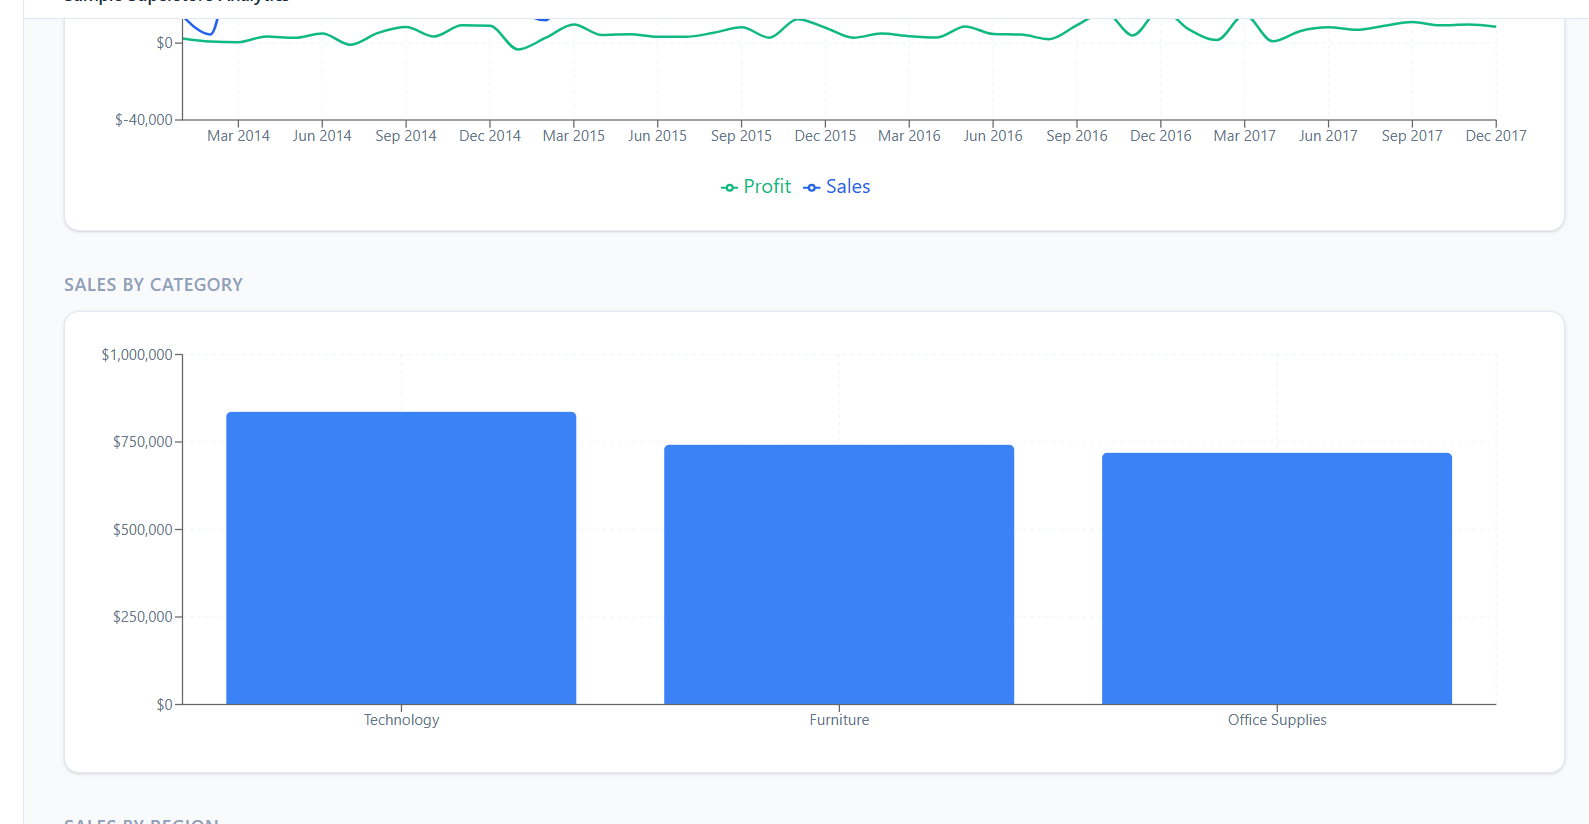
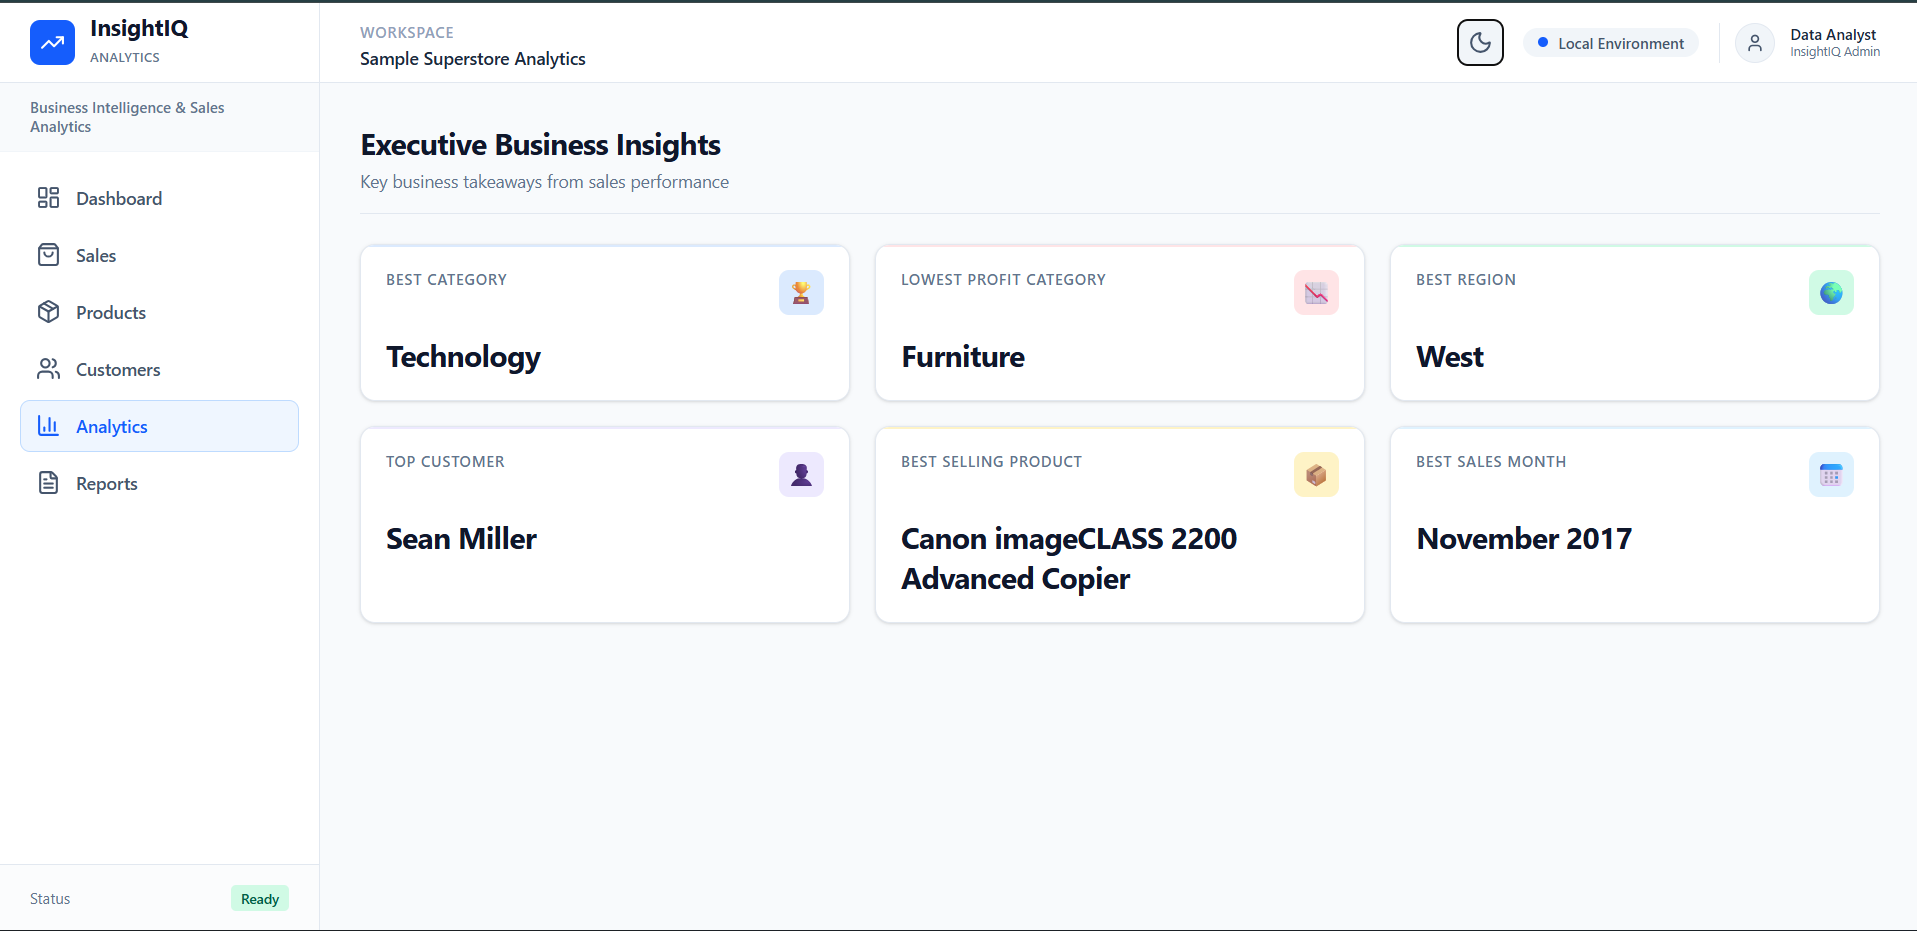
readme update

diff --git a/README.md b/README.md
@@ -4,13 +4,16 @@
 
 ### Business Intelligence & Sales Analytics Dashboard
 
-Modern full-stack analytics dashboard built using **React, FastAPI, Pandas & SQLite**.
+A full-stack analytics dashboard for exploring retail sales data, tracking business performance, and generating filtered reports.
 
 ![React](https://img.shields.io/badge/React-19-61DAFB)
 ![FastAPI](https://img.shields.io/badge/FastAPI-009688)
 ![Python](https://img.shields.io/badge/Python-3776AB)
-![TailwindCSS](https://img.shields.io/badge/TailwindCSS-38BDF8)
-![Status](https://img.shields.io/badge/Status-Active-orange)
+![Pandas](https://img.shields.io/badge/Pandas-150458)
+![Tailwind CSS](https://img.shields.io/badge/Tailwind_CSS-38BDF8)
+![Status](https://img.shields.io/badge/Status-Live-success)
+
+**[🌐 Live Demo](https://insightsiq.vercel.app)**
 
 </div>
 
@@ -18,36 +21,33 @@ Modern full-stack analytics dashboard built using **React, FastAPI, Pandas & SQL
 
 ## 📸 Preview
 
-| Dashboard | Analytics |
-|------------|-----------|
-| ![](screenshots/dashboard.png) | ![](screenshots/analytics.png) |
+| Dashboard                      | Sales                      |
+| ------------------------------ | -------------------------- |
+| ![](screenshots/dashboard.png) | ![](screenshots/sales.png) |
 
-| Sales | Paginated Sales |
-|-------|-----------------|
-| ![](screenshots/plain-sales.png) | ![](screenshots/paginated-sales.png) |
+| Products                      | Insights                       |
+| ----------------------------- | ------------------------------ |
+| ![](screenshots/products.png) | ![](screenshots/analytics.png) |
 
 ---
 
 ## ✨ Features
 
-### 📊 Dashboard
-- KPI Cards
-- Monthly Sales & Profit Trend
-- Category Breakdown
-- Regional Distribution
+* 📊 **Executive Dashboard** — KPIs, sales/profit trends, category and regional analysis
+* 🛒 **Sales Analytics** — Search, pagination, region/category filters and date-range filtering
+* 📦 **Product & Customer Analytics** — Top rankings with interactive charts and tables
+* 💡 **Business Insights** — Automatically identifies key performance highlights
+* 📄 **CSV Reports** — Export complete or filtered sales datasets
+* 🎨 **Responsive UI** — Mobile-friendly layout with dark/light mode
 
-### 🛒 Sales Module
-- Paginated Transactions
-- Server-side Pagination
-- Server-side Region & Category Filters
+---
 
-### 🚧 Coming Soon
-- Search
-- Sorting
-- Product Analytics
-- Customer Analytics
-- Business Insights
-- CSV Report Export
+## 🛠 Tech Stack
+
+**Frontend:** React, Vite, Tailwind CSS, Recharts
+**Backend:** FastAPI, Python, Pandas
+**Data:** Sample Superstore Sales Dataset
+**Deployment:** Vercel + Render
 
 ---
 
@@ -56,78 +56,49 @@ Modern full-stack analytics dashboard built using **React, FastAPI, Pandas & SQL
 ```text
 React + Vite
       │
-Native Fetch API
+   Fetch API
       │
-FastAPI
+   FastAPI
       │
 Analytics Service
       │
 Dataset Loader
       │
-CSV Dataset
+Superstore CSV
 ```
 
----
-
-## 🛠 Tech Stack
-
-| Frontend | Backend | Data | Charts |
-|----------|----------|------|---------|
-| React + Vite | FastAPI | Pandas + SQLite | Recharts |
+The dataset is loaded once and processed using Pandas, while the frontend communicates with the backend through a centralized API client.
 
 ---
 
-## 📁 Project Structure
+## 📁 Structure
 
 ```text
-InsightIQ
-│
-├── frontend
-│   ├── components
-│   ├── hooks
-│   ├── layouts
-│   ├── pages
-│   ├── services
-│   └── utils
-│
-├── backend
-│   ├── api
-│   ├── core
-│   ├── data
-│   ├── services
-│   ├── models
-│   └── schemas
-│
-├── dataset
-├── screenshots
-└── README.md
+InsightIQ/
+├── frontend/
+│   └── src/
+│       ├── components/
+│       ├── hooks/
+│       ├── pages/
+│       └── services/
+├── backend/
+│   ├── app/
+│   │   ├── api/
+│   │   ├── data/
+│   │   └── services/
+│   └── main.py
+├── dataset/
+└── screenshots/
 ```
-
----
-
-## 📊 Dataset
-
-**Sample Superstore Sales Dataset**
-
-- ~9,994 Transactions
-- 21 Attributes
-- 4 Years of Retail Sales Data
-
----
-
-## 🔌 API Endpoints
-
-| Endpoint | Description |
-|----------|-------------|
-| `/analytics/kpis` | KPI Summary |
-| `/analytics/trends` | Monthly Trends |
-| `/analytics/categories` | Category Analytics |
-| `/analytics/regions` | Region Analytics |
-| `/sales` | Paginated Sales Records |
 
 ---
 
 ## 🚀 Run Locally
+
+```bash
+git clone https://github.com/sharma-mohit-codes/InsightsIQ.git
+cd InsightsIQ
+```
 
 ### Backend
 
@@ -145,48 +116,25 @@ npm install
 npm run dev
 ```
 
+Frontend → `http://localhost:5173`
 Backend → `http://localhost:8000`
-
 Swagger → `http://localhost:8000/docs`
 
-Frontend → `http://localhost:5173`
-
 ---
 
-## 📈 Progress
+## 🌐 Deployment
 
-| Module | Status |
-|---------|--------|
-| Dashboard | ✅ Complete |
-| Sales | 🚧 In Progress |
-| Products | ⏳ Planned |
-| Customers | ⏳ Planned |
-| Insights | ⏳ Planned |
-| Reports | ⏳ Planned |
+**Frontend:** Vercel
+**Backend:** Render
 
----
-
-## 🗺 Roadmap
-
-- [x] KPI Dashboard
-- [x] Interactive Charts
-- [x] Sales Pagination
-- [x] Server-side Filtering
-- [ ] Search
-- [ ] Sorting
-- [ ] Product Analytics
-- [ ] Customer Analytics
-- [ ] Reports Export
-- [ ] Deployment
+The frontend uses `VITE_API_BASE_URL` so the same codebase works for both local development and production.
 
 ---
 
 ## 👨💻 Author
 
-**Mohit Kumar**
+**Mohit Kumar** · B.Tech Information Technology
 
-B.Tech Information Technology
+[GitHub](https://github.com/sharma-mohit-codes)
 
----
-
-⭐ If you found this project useful, consider giving it a star!
+⭐ If you like the project, consider giving it a star!
